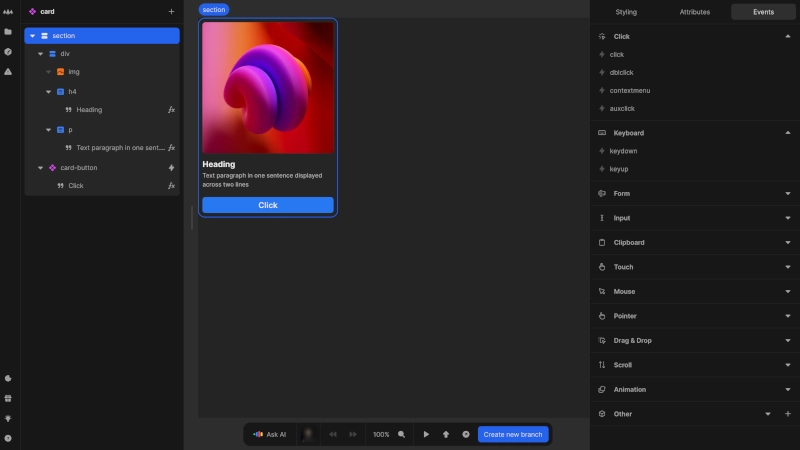
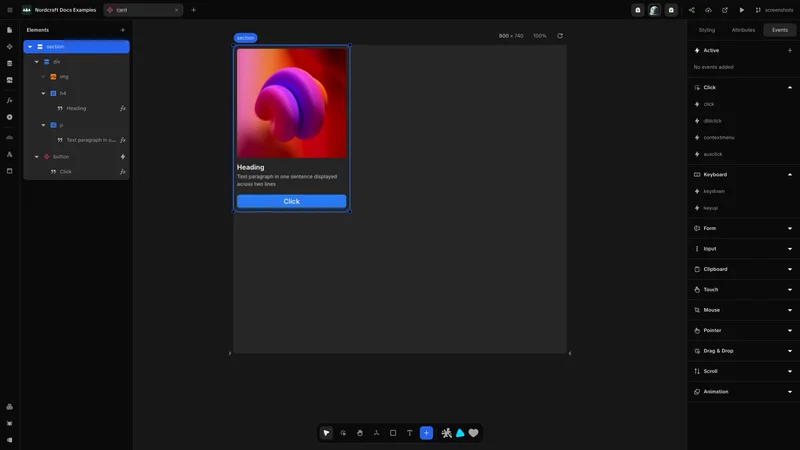
events panel

diff --git a/docs/the-editor/element-panel/element-panel-events.screenshot.ts b/docs/the-editor/element-panel/element-panel-events.screenshot.ts
@@ -1,0 +1,10 @@
+import { defineScreenshot } from '@/scripts/capture-screenshots'
+import type { Page } from 'playwright'
+
+// Placeholder script for element-panel-events.webp
+export default defineScreenshot({
+  path: '/projects/docs_examples/branches/screenshots/components/card?mode=design&canvas-tool=select&canvas-width=800&selection=nodes.root&rightpanel=events',
+  setup: async (page: Page) => {
+    await page.waitForTimeout(500)
+  },
+})
